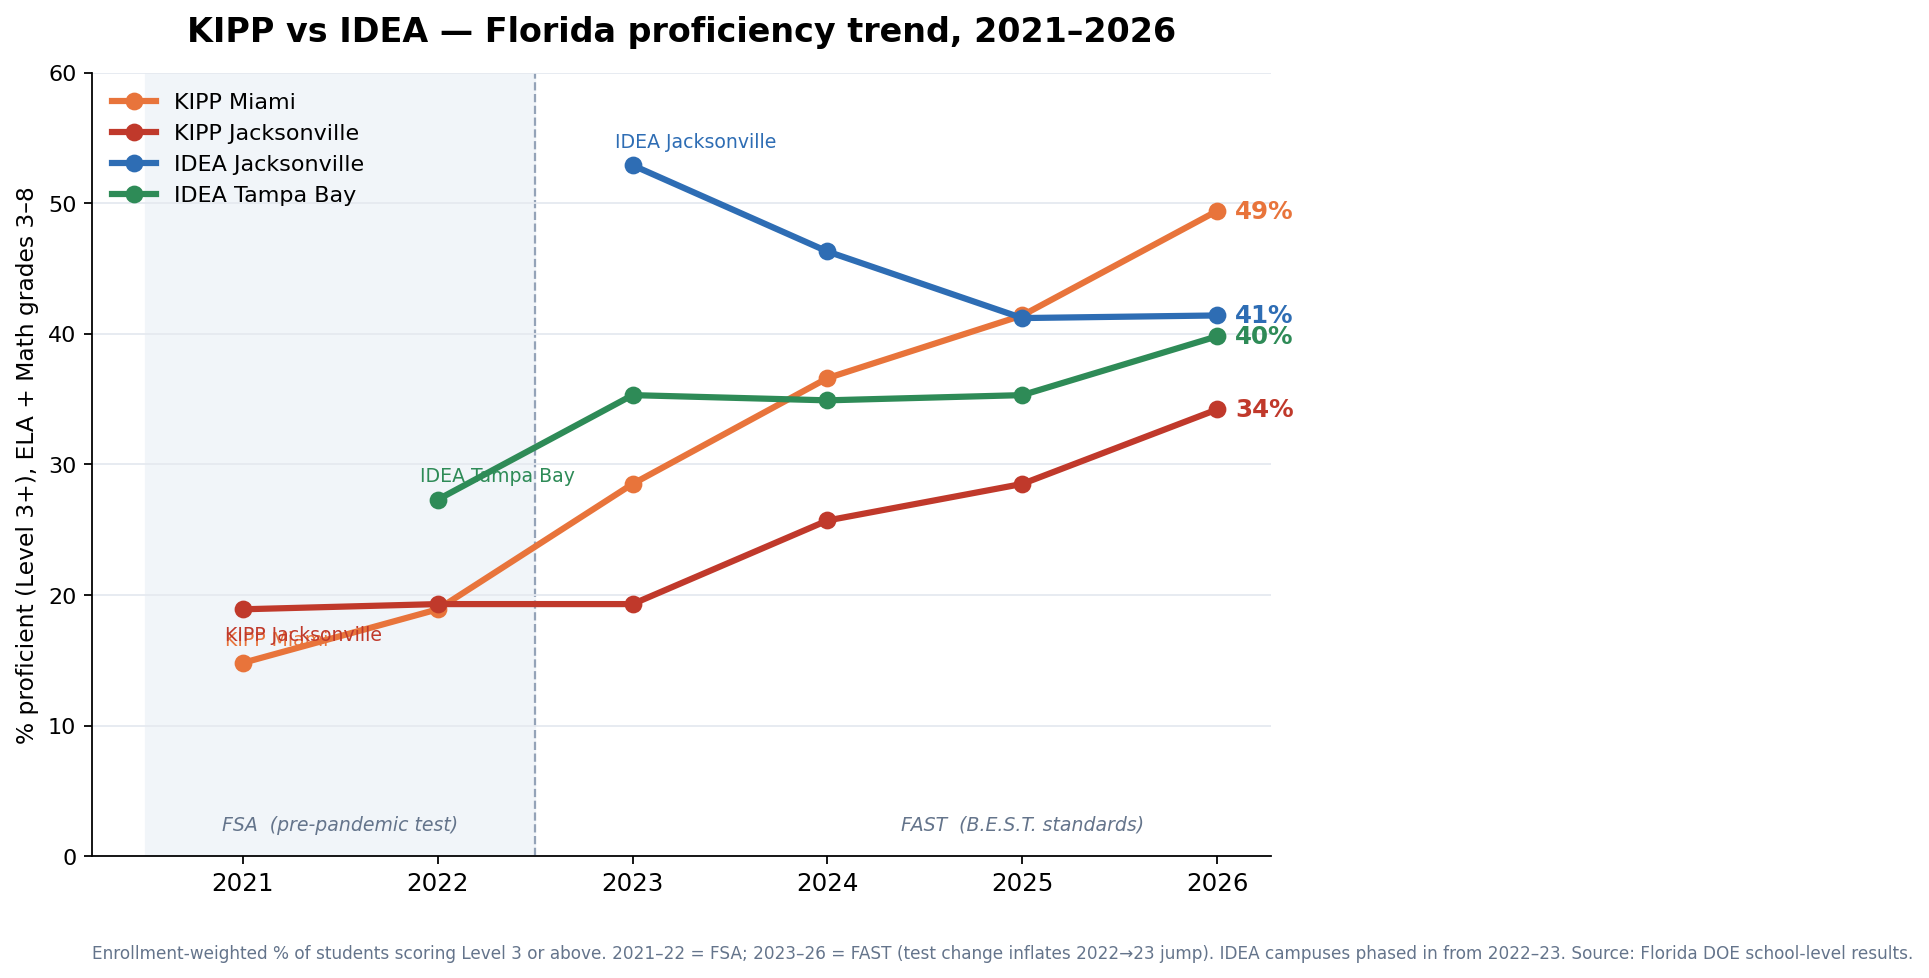
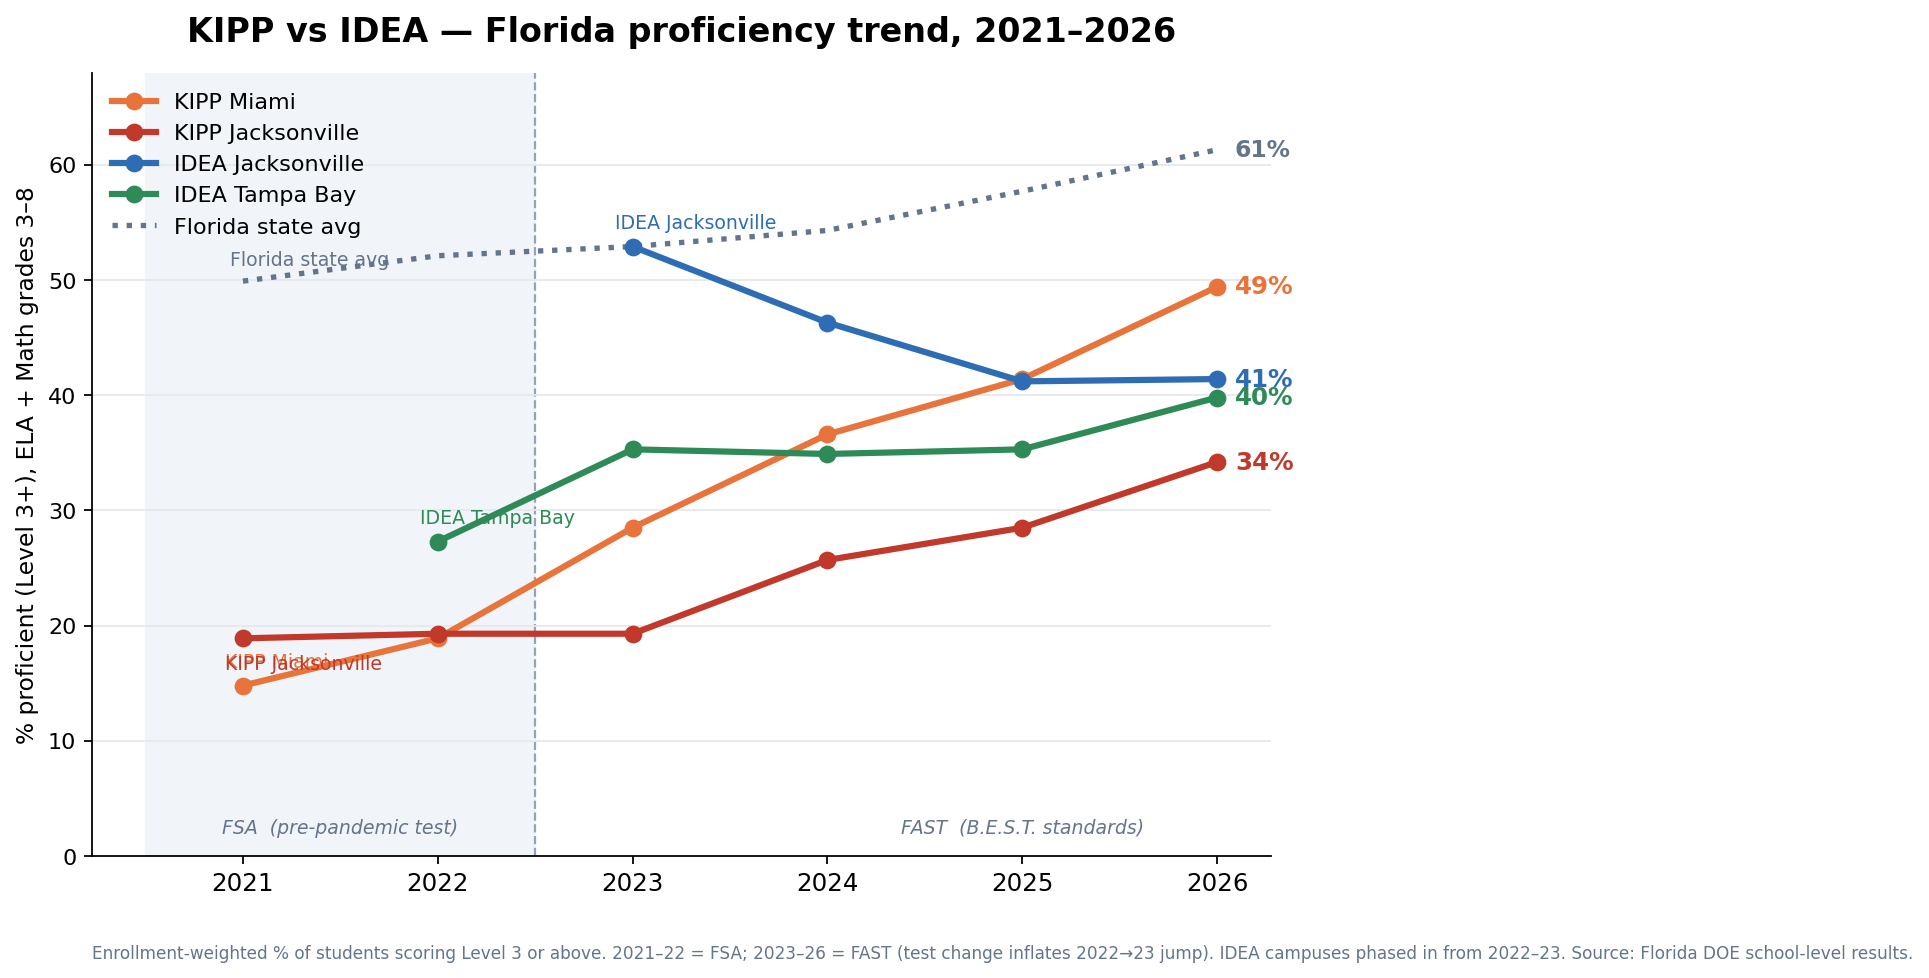
Add files via upload

diff --git a/trends.html b/trends.html
@@ -6,7 +6,7 @@
 <title>KIPP vs IDEA — Florida Proficiency Trends 2021–2026</title>
 <script src="https://cdn.jsdelivr.net/npm/chart.js@4.4.1/dist/chart.umd.min.js"></script>
 <style>
-:root{--bg:#f4f6f9;--card:#fff;--ink:#15233b;--muted:#64748b;--line:#e5e9f0;--radius:12px;}
+:root{--bg:#f4f6f9;--card:#fff;--ink:#15233b;--muted:#64748b;--line:#e5e9f0;--state:#94a3b8;--radius:12px;}
 *{margin:0;padding:0;box-sizing:border-box}
 body{font-family:-apple-system,BlinkMacSystemFont,'Segoe UI',Roboto,sans-serif;background:var(--bg);color:var(--ink);line-height:1.45}
 .wrap{max-width:1240px;margin:0 auto;padding:18px}
@@ -14,15 +14,17 @@ header.hero{background:linear-gradient(135deg,#15233b,#243b5e);color:#fff;border
 header.hero h1{font-size:21px;font-weight:700}
 header.hero p{font-size:13px;opacity:.85;margin-top:5px;max-width:920px}
 header.hero a{color:#bcd2f5}
-.controls{display:flex;flex-wrap:wrap;gap:18px;align-items:center;background:var(--card);border:1px solid var(--line);border-radius:var(--radius);padding:14px 18px;margin-bottom:16px}
+.controls{display:flex;flex-wrap:wrap;gap:18px;align-items:flex-end;background:var(--card);border:1px solid var(--line);border-radius:var(--radius);padding:14px 18px;margin-bottom:16px}
 .grp{display:flex;flex-direction:column;gap:6px}
 .lbl{font-size:11px;text-transform:uppercase;letter-spacing:.6px;color:var(--muted);font-weight:700}
 .seg{display:inline-flex;border:1px solid var(--line);border-radius:8px;overflow:hidden}
 .seg button{border:0;background:#fff;padding:7px 13px;font-size:13px;font-weight:600;color:var(--muted);cursor:pointer}
 .seg button.active{background:var(--ink);color:#fff}
+select{padding:8px 10px;border:1px solid var(--line);border-radius:8px;font-size:13px;font-weight:600;color:var(--ink);background:#fff}
 .regtoggles{display:flex;flex-wrap:wrap;gap:10px}
 .chip{display:inline-flex;align-items:center;gap:7px;font-size:13px;font-weight:600;background:#fff;border:1px solid var(--line);border-radius:20px;padding:6px 12px;cursor:pointer;user-select:none}
 .chip .dot{width:11px;height:11px;border-radius:50%}
+.chip.dotted .dot{background:repeating-linear-gradient(90deg,var(--state),var(--state) 2px,#fff 2px,#fff 4px);border-radius:0;height:3px;width:14px}
 .chip.off{opacity:.4;text-decoration:line-through}
 .tabs{display:flex;gap:6px;margin-bottom:14px;flex-wrap:wrap}
 .tabs button{border:1px solid var(--line);background:#fff;color:var(--muted);font-weight:600;font-size:13px;padding:9px 16px;border-radius:8px;cursor:pointer}
@@ -42,8 +44,8 @@ table{width:100%;border-collapse:collapse;font-size:13px}
 th,td{padding:8px 10px;border-bottom:1px solid var(--line);text-align:center;white-space:nowrap}
 th{font-size:11px;text-transform:uppercase;letter-spacing:.4px;color:var(--muted)}
 td.lt,th.lt{text-align:left;font-weight:600}
-.cell{display:inline-block;min-width:30px}
-.delta{font-weight:700}
+tbody tr.state td{background:#f8fafc;color:var(--muted)}
+.delta{font-weight:700;font-size:11px}
 .up{color:#16a34a}.down{color:#dc2626}
 .note{background:#fff8e6;border:1px solid #f5e3a8;border-radius:10px;padding:12px 16px;font-size:12.5px;color:#5b4d1e;margin-bottom:16px}
 footer{font-size:12px;color:var(--muted);text-align:center;padding:14px 0 30px}
@@ -54,11 +56,11 @@ footer a{color:var(--muted)}
 <div class="wrap">
 <header class="hero">
   <h1>KIPP vs IDEA — Florida Proficiency Trends, 2021–2026</h1>
-  <p>Six-year history of % proficient (Level 3+) by network, with year-over-year growth. Companion to the <a href="./index.html">2026 snapshot dashboard</a>. Enrollment-weighted across all campuses, grades 3–8. Source: Florida DOE school-level results.</p>
+  <p>% proficient (Level 3+) by network and grade, with the Florida state average (dotted) and year-over-year growth. Companion to the <a href="./index.html">2026 snapshot dashboard</a>. Enrollment-weighted across campuses. Source: Florida DOE school-level results.</p>
 </header>
 
 <div class="note" id="testnote">
-  <b>Read the 2022→2023 jump with care:</b> 2021–2022 used the <b>FSA</b>; Florida switched to the <b>FAST / B.E.S.T.</b> assessment in 2023, so part of that one-year change reflects the test change, not only school performance. 2021 was also a COVID-depressed year. IDEA campuses phased in over 2022–2024, so early years are blank for networks that didn't yet exist.
+  <b>Read the 2022→2023 jump with care:</b> 2021–2022 used the <b>FSA</b>; Florida switched to <b>FAST / B.E.S.T.</b> in 2023, so part of that change reflects the test switch. 2021 was COVID-depressed. IDEA campuses phased in over 2022–2024, so early years are blank for networks that didn't yet exist.
 </div>
 
 <div class="controls">
@@ -71,14 +73,24 @@ footer a{color:var(--muted)}
       <button data-subj="ALG1">Algebra 1 EOC</button>
     </div>
   </div>
+  <div class="grp">
+    <label class="lbl">Grade</label>
+    <select id="gradeSel">
+      <option value="ALL">All grades 3–8</option>
+      <option value="03">Grade 3</option><option value="04">Grade 4</option>
+      <option value="05">Grade 5</option><option value="06">Grade 6</option>
+      <option value="07">Grade 7</option><option value="08">Grade 8</option>
+    </select>
+  </div>
   <div class="grp" style="flex:1">
-    <label class="lbl">Networks (click to show / hide)</label>
+    <label class="lbl">Show / hide</label>
     <div class="regtoggles" id="regToggles"></div>
   </div>
 </div>
 
 <div class="tabs" id="tabs">
   <button data-tab="trend" class="active">Trend over time</button>
+  <button data-tab="snap2026" >2026 by grade</button>
   <button data-tab="yoy">Year-over-year growth</button>
   <button data-tab="table">Data table</button>
 </div>
@@ -86,127 +98,147 @@ footer a{color:var(--muted)}
 <div class="panel active" id="panel-trend">
   <div class="kpis" id="kpis"></div>
   <div class="card">
-    <h3>% proficient over time — <span class="subjName"></span></h3>
-    <div class="hint">Each point is the enrollment-weighted % of students at Level 3 or above. Gaps = network/campuses not yet open that year.</div>
+    <h3>% proficient over time — <span class="ctx"></span></h3>
+    <div class="hint">Each point is the enrollment-weighted % at Level 3 or above. <b>Dotted grey = Florida state average.</b> Gaps = network not yet open that year.</div>
     <div class="chartbox"><canvas id="trendChart"></canvas></div>
+  </div>
+</div>
+
+<div class="panel" id="panel-snap2026">
+  <div class="card">
+    <h3>2026 snapshot by grade — <span class="subjName"></span></h3>
+    <div class="hint">Spring 2026 % proficient at each grade for each network, with the Florida state average. The single-year view of the same data.</div>
+    <div class="chartbox"><canvas id="snapChart"></canvas></div>
   </div>
 </div>
 
 <div class="panel" id="panel-yoy">
   <div class="card">
-    <h3>Year-over-year change (percentage points) — <span class="subjName"></span></h3>
-    <div class="hint">Bars show the change in % proficient vs the prior year. Green = improvement, red = decline.</div>
+    <h3>Year-over-year change (pp) — <span class="ctx"></span></h3>
+    <div class="hint">Change in % proficient vs the prior year. Green = improvement, red = decline.</div>
     <div class="chartbox"><canvas id="yoyChart"></canvas></div>
   </div>
 </div>
 
 <div class="panel" id="panel-table">
   <div class="card">
-    <h3>Levels &amp; year-over-year growth — <span class="subjName"></span></h3>
-    <div class="hint">Each cell: % proficient, with the YoY change beneath. Last column = total change since the network's first year.</div>
+    <h3>Levels &amp; year-over-year growth — <span class="ctx"></span></h3>
+    <div class="hint">Each cell: % proficient with the YoY change beneath. Last column = total change since first year. State row shaded.</div>
     <div style="overflow-x:auto"><table id="dataTable"></table></div>
   </div>
 </div>
 
 <footer>
-  Built from Florida DOE results pages 2021–2026 (<a href="https://www.fldoe.org/accountability/assessments/k-12-student-assessment/results/" target="_blank" rel="noopener">fldoe.org</a>). Algebra 1 EOC is all-grades first-time testers. IDEA Lakeland (Polk Co.) included in IDEA Tampa Bay. Data pulled June 27, 2026.
+  Built from Florida DOE results pages 2021–2026 (<a href="https://www.fldoe.org/accountability/assessments/k-12-student-assessment/results/" target="_blank" rel="noopener">fldoe.org</a>). Algebra 1 EOC is all-grades first-time testers (shown as its own subject). IDEA Lakeland (Polk Co.) included in IDEA Tampa Bay. Data pulled June 27, 2026.
 </footer>
 </div>
 
 <script>
-const DATA = {"years": ["2021", "2022", "2023", "2024", "2025", "2026"], "networks": ["KIPP Miami", "KIPP Jacksonville", "IDEA Jacksonville", "IDEA Tampa Bay"], "rows": [{"year": "2021", "network": "KIPP Miami", "subj": "ELA", "n": 283, "p3": 16.3}, {"year": "2021", "network": "KIPP Jacksonville", "subj": "ELA", "n": 893, "p3": 21.7}, {"year": "2021", "network": "KIPP Miami", "subj": "MATH", "n": 283, "p3": 13.4}, {"year": "2021", "network": "KIPP Jacksonville", "subj": "MATH", "n": 858, "p3": 15.9}, {"year": "2021", "network": "KIPP Miami", "subj": "COMBINED", "n": 566, "p3": 14.8}, {"year": "2021", "network": "KIPP Jacksonville", "subj": "COMBINED", "n": 1751, "p3": 18.9}, {"year": "2021", "network": "KIPP Jacksonville", "subj": "ALG1", "n": 47, "p3": 57.0}, {"year": "2022", "network": "KIPP Miami", "subj": "ELA", "n": 516, "p3": 15.8}, {"year": "2022", "network": "KIPP Jacksonville", "subj": "ELA", "n": 1190, "p3": 21.4}, {"year": "2022", "network": "IDEA Tampa Bay", "subj": "ELA", "n": 249, "p3": 28.2}, {"year": "2022", "network": "KIPP Miami", "subj": "MATH", "n": 514, "p3": 22.0}, {"year": "2022", "network": "KIPP Jacksonville", "subj": "MATH", "n": 1137, "p3": 17.1}, {"year": "2022", "network": "IDEA Tampa Bay", "subj": "MATH", "n": 248, "p3": 26.5}, {"year": "2022", "network": "KIPP Miami", "subj": "COMBINED", "n": 1030, "p3": 18.9}, {"year": "2022", "network": "KIPP Jacksonville", "subj": "COMBINED", "n": 2327, "p3": 19.3}, {"year": "2022", "network": "IDEA Tampa Bay", "subj": "COMBINED", "n": 497, "p3": 27.3}, {"year": "2022", "network": "KIPP Jacksonville", "subj": "ALG1", "n": 99, "p3": 32.0}, {"year": "2023", "network": "KIPP Miami", "subj": "ELA", "n": 605, "p3": 23.5}, {"year": "2023", "network": "KIPP Jacksonville", "subj": "ELA", "n": 1284, "p3": 20.2}, {"year": "2023", "network": "IDEA Tampa Bay", "subj": "ELA", "n": 694, "p3": 29.9}, {"year": "2023", "network": "IDEA Jacksonville", "subj": "ELA", "n": 231, "p3": 39.1}, {"year": "2023", "network": "KIPP Miami", "subj": "MATH", "n": 585, "p3": 33.7}, {"year": "2023", "network": "KIPP Jacksonville", "subj": "MATH", "n": 1228, "p3": 18.5}, {"year": "2023", "network": "IDEA Tampa Bay", "subj": "MATH", "n": 689, "p3": 40.7}, {"year": "2023", "network": "IDEA Jacksonville", "subj": "MATH", "n": 229, "p3": 66.8}, {"year": "2023", "network": "KIPP Miami", "subj": "COMBINED", "n": 1190, "p3": 28.5}, {"year": "2023", "network": "KIPP Jacksonville", "subj": "COMBINED", "n": 2512, "p3": 19.3}, {"year": "2023", "network": "IDEA Tampa Bay", "subj": "COMBINED", "n": 1383, "p3": 35.3}, {"year": "2023", "network": "IDEA Jacksonville", "subj": "COMBINED", "n": 460, "p3": 52.9}, {"year": "2023", "network": "KIPP Miami", "subj": "ALG1", "n": 18, "p3": 83.0}, {"year": "2023", "network": "KIPP Jacksonville", "subj": "ALG1", "n": 176, "p3": 29.3}, {"year": "2024", "network": "KIPP Miami", "subj": "ELA", "n": 716, "p3": 32.8}, {"year": "2024", "network": "KIPP Jacksonville", "subj": "ELA", "n": 1461, "p3": 26.3}, {"year": "2024", "network": "IDEA Jacksonville", "subj": "ELA", "n": 752, "p3": 40.1}, {"year": "2024", "network": "IDEA Tampa Bay", "subj": "ELA", "n": 1025, "p3": 30.5}, {"year": "2024", "network": "KIPP Miami", "subj": "MATH", "n": 662, "p3": 40.7}, {"year": "2024", "network": "KIPP Jacksonville", "subj": "MATH", "n": 1384, "p3": 25.1}, {"year": "2024", "network": "IDEA Jacksonville", "subj": "MATH", "n": 749, "p3": 52.5}, {"year": "2024", "network": "IDEA Tampa Bay", "subj": "MATH", "n": 1021, "p3": 39.3}, {"year": "2024", "network": "KIPP Miami", "subj": "COMBINED", "n": 1378, "p3": 36.6}, {"year": "2024", "network": "KIPP Jacksonville", "subj": "COMBINED", "n": 2845, "p3": 25.7}, {"year": "2024", "network": "IDEA Jacksonville", "subj": "COMBINED", "n": 1501, "p3": 46.3}, {"year": "2024", "network": "IDEA Tampa Bay", "subj": "COMBINED", "n": 2046, "p3": 34.9}, {"year": "2024", "network": "KIPP Miami", "subj": "ALG1", "n": 51, "p3": 82.0}, {"year": "2024", "network": "KIPP Jacksonville", "subj": "ALG1", "n": 116, "p3": 48.6}, {"year": "2025", "network": "KIPP Miami", "subj": "ELA", "n": 866, "p3": 41.3}, {"year": "2025", "network": "KIPP Jacksonville", "subj": "ELA", "n": 1535, "p3": 29.6}, {"year": "2025", "network": "IDEA Jacksonville", "subj": "ELA", "n": 1167, "p3": 39.3}, {"year": "2025", "network": "IDEA Tampa Bay", "subj": "ELA", "n": 1450, "p3": 32.9}, {"year": "2025", "network": "KIPP Miami", "subj": "MATH", "n": 796, "p3": 41.5}, {"year": "2025", "network": "KIPP Jacksonville", "subj": "MATH", "n": 1413, "p3": 27.2}, {"year": "2025", "network": "IDEA Jacksonville", "subj": "MATH", "n": 1089, "p3": 43.2}, {"year": "2025", "network": "IDEA Tampa Bay", "subj": "MATH", "n": 1373, "p3": 37.8}, {"year": "2025", "network": "KIPP Miami", "subj": "COMBINED", "n": 1662, "p3": 41.4}, {"year": "2025", "network": "KIPP Jacksonville", "subj": "COMBINED", "n": 2948, "p3": 28.5}, {"year": "2025", "network": "IDEA Jacksonville", "subj": "COMBINED", "n": 2256, "p3": 41.2}, {"year": "2025", "network": "IDEA Tampa Bay", "subj": "COMBINED", "n": 2823, "p3": 35.3}, {"year": "2025", "network": "KIPP Miami", "subj": "ALG1", "n": 66, "p3": 62.0}, {"year": "2025", "network": "KIPP Jacksonville", "subj": "ALG1", "n": 232, "p3": 43.3}, {"year": "2025", "network": "IDEA Jacksonville", "subj": "ALG1", "n": 85, "p3": 85.6}, {"year": "2025", "network": "IDEA Tampa Bay", "subj": "ALG1", "n": 169, "p3": 67.7}, {"year": "2026", "network": "KIPP Miami", "subj": "ELA", "n": 875, "p3": 47.9}, {"year": "2026", "network": "KIPP Miami", "subj": "MATH", "n": 781, "p3": 51.1}, {"year": "2026", "network": "KIPP Miami", "subj": "ALG1", "n": 84, "p3": 88.0}, {"year": "2026", "network": "KIPP Miami", "subj": "COMBINED", "n": 1656, "p3": 49.4}, {"year": "2026", "network": "KIPP Jacksonville", "subj": "ELA", "n": 1600, "p3": 35.0}, {"year": "2026", "network": "KIPP Jacksonville", "subj": "MATH", "n": 1468, "p3": 33.3}, {"year": "2026", "network": "KIPP Jacksonville", "subj": "ALG1", "n": 231, "p3": 45.6}, {"year": "2026", "network": "KIPP Jacksonville", "subj": "COMBINED", "n": 3068, "p3": 34.2}, {"year": "2026", "network": "IDEA Jacksonville", "subj": "ELA", "n": 1439, "p3": 38.2}, {"year": "2026", "network": "IDEA Jacksonville", "subj": "MATH", "n": 1348, "p3": 44.8}, {"year": "2026", "network": "IDEA Jacksonville", "subj": "ALG1", "n": 91, "p3": 83.5}, {"year": "2026", "network": "IDEA Jacksonville", "subj": "COMBINED", "n": 2787, "p3": 41.4}, {"year": "2026", "network": "IDEA Tampa Bay", "subj": "ELA", "n": 1568, "p3": 40.3}, {"year": "2026", "network": "IDEA Tampa Bay", "subj": "MATH", "n": 1492, "p3": 39.3}, {"year": "2026", "network": "IDEA Tampa Bay", "subj": "ALG1", "n": 111, "p3": 62.3}, {"year": "2026", "network": "IDEA Tampa Bay", "subj": "COMBINED", "n": 3060, "p3": 39.8}]};
-const YEARS = DATA.years, NETS = DATA.networks;
+const DATA = {"years": ["2021", "2022", "2023", "2024", "2025", "2026"], "networks": ["KIPP Miami", "KIPP Jacksonville", "IDEA Jacksonville", "IDEA Tampa Bay"], "series": {"ELA": {"03": {"STATE": [54, 53, 50, 55, 57, 60], "KIPP Miami": [16, 21, 26, 36, 35, 49], "KIPP Jacksonville": [20, 16, 20.9, 24.8, 22.6, 32], "IDEA Tampa Bay": [null, null, 25.3, 33.4, 39.9, 34.5], "IDEA Jacksonville": [null, null, null, 38, 40.4, 35.2]}, "ALL": {"STATE": [52, 52.3, 50.4, 53, 56.8, 60.8], "KIPP Miami": [16.3, 15.8, 23.5, 32.8, 41.3, 47.9], "KIPP Jacksonville": [21.7, 21.4, 20.2, 26.3, 29.6, 34.9], "IDEA Tampa Bay": [null, 28.2, 29.9, 30.5, 32.9, 40.4], "IDEA Jacksonville": [null, null, 39.1, 40.1, 39.3, 38.2]}, "04": {"STATE": [52, 57, 58, 53, 56, 60], "KIPP Jacksonville": [15, 22.3, 15.4, 23.5, 22.9, 23], "KIPP Miami": [null, 11, 33, 26, 32, 48], "IDEA Jacksonville": [null, null, null, 38.7, 34.5, 39.3], "IDEA Tampa Bay": [null, null, null, 28.8, 29.4, 39]}, "05": {"STATE": [54, 55, 54, 55, 56, 61], "KIPP Miami": [14, 8, 18, 26, 36, 41], "KIPP Jacksonville": [19, 17, 12.1, 15.5, 25.1, 29.8], "IDEA Jacksonville": [null, null, null, null, 36.1, 33.5], "IDEA Tampa Bay": [null, null, null, null, 29.2, 45.3]}, "06": {"STATE": [52, 52, 47, 54, 60, 62], "KIPP Miami": [26, 21, 21, 33, 50, 47], "KIPP Jacksonville": [23, 25.7, 21.4, 32.8, 30.1, 41.3], "IDEA Tampa Bay": [null, 28.2, 32.6, 23.3, 38.8, 37.2], "IDEA Jacksonville": [null, null, 39.1, 41, 33.8, 42.5]}, "07": {"STATE": [48, 48, 47, 50, 57, 62], "KIPP Miami": [8, 16, 30, 34, 49, 46], "KIPP Jacksonville": [20, 23, 20.4, 28.6, 36.6, 34.9], "IDEA Tampa Bay": [null, null, 31.9, 32.6, 25.2, 48.4], "IDEA Jacksonville": [null, null, null, 41.5, 39, 30]}, "08": {"STATE": [52, 49, 47, 51, 55, 60], "KIPP Jacksonville": [45, 27, 28, 26.1, 37.2, 45.9], "KIPP Miami": [null, 13, 18, 39, 47, 56], "IDEA Tampa Bay": [null, null, null, 33.8, 32.6, 39.6], "IDEA Jacksonville": [null, null, null, null, 49.7, 47.4]}}, "COMBINED": {"03": {"STATE": [52.5, 55.5, 54.5, 57.5, 60, 63], "KIPP Miami": [11.5, 22.5, 27, 37, 35.5, 55], "KIPP Jacksonville": [14.1, 17.2, 19.5, 22.1, 28.2, 36.4], "IDEA Tampa Bay": [null, null, 29.4, 36.2, 41.6, 32.5], "IDEA Jacksonville": [null, null, null, 45, 45.1, 40.5]}, "ALL": {"STATE": [49.9, 52.1, 52.9, 54.3, 57.7, 61.3], "KIPP Miami": [14.8, 18.9, 28.5, 36.6, 41.4, 49.4], "KIPP Jacksonville": [18.9, 19.3, 19.3, 25.8, 28.5, 34.1], "IDEA Tampa Bay": [null, 27.4, 35.3, 34.9, 35.3, 39.8], "IDEA Jacksonville": [null, null, 52.9, 46.3, 41.2, 41.4]}, "04": {"STATE": [52.5, 59, 59.5, 55.5, 59, 62.5], "KIPP Jacksonville": [12.5, 16.5, 13.7, 19.8, 22, 23.4], "KIPP Miami": [null, 11, 32, 28.5, 34.5, 47], "IDEA Jacksonville": [null, null, null, 46.7, 43.1, 41.7], "IDEA Tampa Bay": [null, null, null, 31.9, 32.3, 36.2]}, "05": {"STATE": [52.5, 53.5, 54.5, 55.5, 56.5, 61.5], "KIPP Miami": [8.1, 6, 17, 32.1, 29.5, 34.5], "KIPP Jacksonville": [14.4, 12.6, 9.6, 11.5, 17.6, 25.4], "IDEA Jacksonville": [null, null, null, null, 40.5, 34], "IDEA Tampa Bay": [null, null, null, null, 30.2, 40.2]}, "06": {"STATE": [48.6, 50.5, 50.5, 55, 60, 61], "KIPP Miami": [24.5, 29.1, 31.5, 36, 52, 53.5], "KIPP Jacksonville": [24.5, 22.8, 18.7, 29.6, 24.8, 37.5], "IDEA Tampa Bay": [null, 27.4, 39.2, 25, 41.3, 37.1], "IDEA Jacksonville": [null, null, 52.9, 42, 32.9, 46.8]}, "07": {"STATE": [46.2, 47.1, 47.4, 48.8, 54.2, 58.7], "KIPP Miami": [11.5, 19.5, 42.5, 49, 52, 56.4], "KIPP Jacksonville": [26, 25.5, 21.7, 33.2, 40.3, 40.9], "IDEA Tampa Bay": [null, null, 37.4, 38.6, 34.4, 53.4], "IDEA Jacksonville": [null, null, null, 51.4, 41.8, 38.1]}, "08": {"STATE": [45.9, 46.1, 50.5, 52.3, 55.9, 60.4], "KIPP Jacksonville": [39, 26.2, 31.5, 29, 33.4, 39.9], "KIPP Miami": [null, 17.4, 23.8, 37.7, 47, 48.9], "IDEA Tampa Bay": [null, null, null, 42.1, 28.9, 42.6], "IDEA Jacksonville": [null, null, null, null, 42.5, 46.7]}}, "MATH": {"03": {"STATE": [51, 58, 59, 60, 63, 66], "KIPP Miami": [7, 24, 28, 38, 36, 61], "KIPP Jacksonville": [8, 18.4, 18, 19.4, 33.9, 40.8], "IDEA Tampa Bay": [null, null, 33.4, 39, 43.2, 30.4], "IDEA Jacksonville": [null, null, null, 52, 49.9, 45.9]}, "ALL": {"STATE": [47.5, 51.9, 55.7, 55.7, 58.7, 61.9], "KIPP Miami": [13.4, 22, 33.7, 40.7, 41.5, 51.1], "KIPP Jacksonville": [15.9, 17.1, 18.5, 25.2, 27.2, 33.3], "IDEA Tampa Bay": [null, 26.5, 40.7, 39.3, 37.8, 39.3], "IDEA Jacksonville": [null, null, 66.8, 52.5, 43.2, 44.8]}, "04": {"STATE": [53, 61, 61, 58, 62, 65], "KIPP Jacksonville": [10, 10.6, 11.9, 16, 21, 23.9], "KIPP Miami": [null, 11, 31, 31, 37, 46], "IDEA Jacksonville": [null, null, null, 54.8, 51.7, 44], "IDEA Tampa Bay": [null, null, null, 34.9, 35.2, 33.3]}, "05": {"STATE": [51, 52, 55, 56, 57, 62], "KIPP Miami": [2, 4, 16, 38, 23, 28], "KIPP Jacksonville": [10, 8.1, 7.2, 7.6, 10.2, 20.9], "IDEA Jacksonville": [null, null, null, null, 44.9, 34.5], "IDEA Tampa Bay": [null, null, null, null, 31.2, 35]}, "06": {"STATE": [45, 49, 54, 56, 60, 60], "KIPP Miami": [23, 37, 42, 39, 54, 60], "KIPP Jacksonville": [26, 19.9, 15.9, 26.3, 19.6, 33.8], "IDEA Tampa Bay": [null, 26.5, 45.8, 26.7, 43.7, 37.1], "IDEA Jacksonville": [null, null, 66.8, 43, 32, 51.2]}, "07": {"STATE": [44, 46, 48, 47, 50, 53], "KIPP Miami": [15, 23, 55, 64, 55, 67], "KIPP Jacksonville": [32, 28, 22.9, 37.8, 44.1, 47.1], "IDEA Tampa Bay": [null, null, 43, 44.6, 43.7, 58.3], "IDEA Jacksonville": [null, null, null, 61.3, 44.5, 46.5]}, "08": {"STATE": [37, 42, 55, 54, 57, 61], "KIPP Jacksonville": [26, 25, 36.3, 32.9, 26.9, 29.6], "KIPP Miami": [null, 22, 31, 35, 47, 31], "IDEA Tampa Bay": [null, null, null, 50.4, 23, 47.2], "IDEA Jacksonville": [null, null, null, null, 30.6, 45.6]}}, "ALG1": {"EOC": {"STATE": [49, 54, 54, 55, 60, 63], "KIPP Jacksonville": [57, 32, 29.3, 48.6, 43.3, 45.6], "KIPP Miami": [null, null, 83, 82, 62, 88], "IDEA Jacksonville": [null, null, null, null, 85.6, 83.5], "IDEA Tampa Bay": [null, null, null, null, 67.7, 62.3]}}}};
+const YEARS = DATA.years, NETS = DATA.networks, SER = DATA.series;
 const RCOLOR={"KIPP Miami":"#E8743B","KIPP Jacksonville":"#C0392B","IDEA Jacksonville":"#2E6DB4","IDEA Tampa Bay":"#2E8B57"};
+const STATE_C="#94a3b8";
 const SUBJ_NAME={COMBINED:"ELA + Math",ELA:"ELA",MATH:"Math",ALG1:"Algebra 1 EOC"};
-// index: subj -> net -> year -> p3
-const IDX={};
-DATA.rows.forEach(r=>{(IDX[r.subj]=IDX[r.subj]||{}); (IDX[r.subj][r.network]=IDX[r.subj][r.network]||{})[r.year]=r.p3;});
+const GLABEL={ALL:"All grades 3–8","03":"Grade 3","04":"Grade 4","05":"Grade 5","06":"Grade 6","07":"Grade 7","08":"Grade 8",EOC:"Algebra 1 EOC"};
+const GRADES=["03","04","05","06","07","08"];
 
-let subj="COMBINED";
-let on={}; NETS.forEach(n=>on[n]=true);
+let subj="COMBINED", grade="ALL";
+let on={}; NETS.forEach(n=>on[n]=true); on["STATE"]=true;
 let charts={};
-const active=()=>NETS.filter(n=>on[n]);
-const series=(sj,net)=>YEARS.map(y=>{const v=IDX[sj]&&IDX[sj][net]&&IDX[sj][net][y]; return v==null?null:v;});
+const activeNets=()=>NETS.filter(n=>on[n]);
+const curGrade=()=> subj==="ALG1" ? "EOC" : grade;
+const get=(sj,g,net)=> (SER[sj]&&SER[sj][g]&&SER[sj][g][net]) ? SER[sj][g][net] : null;
 
 function buildToggles(){
   const c=document.getElementById("regToggles"); c.innerHTML="";
   NETS.forEach(n=>{const e=document.createElement("div");e.className="chip"+(on[n]?"":" off");
     e.innerHTML=`<span class="dot" style="background:${RCOLOR[n]}"></span>${n}`;
     e.onclick=()=>{on[n]=!on[n];e.classList.toggle("off");renderAll();};c.appendChild(e);});
+  const s=document.createElement("div");s.className="chip dotted"+(on["STATE"]?"":" off");
+  s.innerHTML=`<span class="dot"></span>Florida state`;
+  s.onclick=()=>{on["STATE"]=!on["STATE"];s.classList.toggle("off");renderAll();};c.appendChild(s);
 }
-function firstLast(sj,net){const s=series(sj,net);let f=null,l=null;
-  for(let i=0;i<s.length;i++){if(s[i]!=null){if(f==null)f={y:YEARS[i],v:s[i]};l={y:YEARS[i],v:s[i]};}}
-  return {f,l};}
-function lastYoY(sj,net){const s=series(sj,net);let vals=[];for(let i=0;i<s.length;i++)if(s[i]!=null)vals.push({y:YEARS[i],v:s[i]});
-  if(vals.length<2)return null;const a=vals[vals.length-2],b=vals[vals.length-1];return {from:a.y,to:b.y,d:b.v-a.v};}
+function firstLast(arr){let f=null,l=null;for(let i=0;i<arr.length;i++){if(arr[i]!=null){if(f==null)f={y:YEARS[i],v:arr[i]};l={y:YEARS[i],v:arr[i]};}}return {f,l};}
+function lastYoY(arr){let v=[];for(let i=0;i<arr.length;i++)if(arr[i]!=null)v.push({y:YEARS[i],v:arr[i]});if(v.length<2)return null;const a=v[v.length-2],b=v[v.length-1];return {from:a.y,to:b.y,d:b.v-a.v};}
 
 function renderKPIs(){
   const c=document.getElementById("kpis");c.innerHTML="";
-  active().forEach(net=>{
-    const {f,l}=firstLast(subj,net); if(!l){return;}
-    const tot=l.v-f.v; const yo=lastYoY(subj,net);
+  const g=curGrade(); const st=get(subj,g,"STATE");
+  activeNets().forEach(net=>{
+    const arr=get(subj,g,net); if(!arr){return;}
+    const {f,l}=firstLast(arr); if(!l)return; const tot=l.v-f.v; const yo=lastYoY(arr);
+    const gap = st? (l.v - st[5]) : null;
     const d=document.createElement("div");d.className="kpi";d.style.borderLeftColor=RCOLOR[net];
     d.innerHTML=`<div class="name"><span class="dot" style="display:inline-block;width:11px;height:11px;border-radius:50%;background:${RCOLOR[net]}"></span>${net}</div>
       <div class="val">${l.v.toFixed(1)}%</div>
-      <div class="sub">${l.y} level &middot; since ${f.y}: <b class="${tot>=0?'pos':'neg'}">${tot>=0?'+':''}${tot.toFixed(1)} pp</b></div>
-      <div class="sub">latest YoY (${yo?yo.from+'→'+yo.to:''}): <b class="${yo&&yo.d>=0?'pos':'neg'}">${yo?(yo.d>=0?'+':'')+yo.d.toFixed(1)+' pp':'—'}</b></div>`;
+      <div class="sub">${l.y} &middot; since ${f.y}: <b class="${tot>=0?'pos':'neg'}">${tot>=0?'+':''}${tot.toFixed(1)} pp</b>${gap!=null?` &middot; vs state <b class="${gap>=0?'pos':'neg'}">${gap>=0?'+':''}${gap.toFixed(1)}</b>`:''}</div>
+      <div class="sub">latest YoY (${yo?yo.from.slice(2)+'→'+yo.to.slice(2):''}): <b class="${yo&&yo.d>=0?'pos':'neg'}">${yo?(yo.d>=0?'+':'')+yo.d.toFixed(1)+' pp':'—'}</b></div>`;
     c.appendChild(d);
   });
 }
 function renderTrend(){
   if(charts.trend)charts.trend.destroy();
-  const ds=active().map(net=>({label:net,data:series(subj,net),borderColor:RCOLOR[net],
-    backgroundColor:RCOLOR[net]+"22",borderWidth:3,tension:.2,pointRadius:5,pointHoverRadius:7,spanGaps:false}));
-  charts.trend=new Chart(document.getElementById("trendChart"),{type:"line",
-    data:{labels:YEARS,datasets:ds},
+  const g=curGrade();
+  const ds=activeNets().map(net=>({label:net,data:get(subj,g,net),borderColor:RCOLOR[net],backgroundColor:RCOLOR[net]+"22",borderWidth:3,tension:.2,pointRadius:5,pointHoverRadius:7,spanGaps:false}));
+  if(on["STATE"]){const s=get(subj,g,"STATE"); if(s) ds.push({label:"Florida state",data:s,borderColor:STATE_C,borderDash:[6,5],borderWidth:2.5,pointRadius:3,tension:.2,spanGaps:false});}
+  charts.trend=new Chart(document.getElementById("trendChart"),{type:"line",data:{labels:YEARS,datasets:ds},
     options:{responsive:true,maintainAspectRatio:false,interaction:{mode:"index",intersect:false},
-      plugins:{legend:{position:"top",labels:{usePointStyle:true,padding:16}},
-        tooltip:{callbacks:{label:c=>`${c.dataset.label}: ${c.parsed.y==null?'—':c.parsed.y.toFixed(1)+'%'}`}}},
-      scales:{y:{beginAtZero:true,suggestedMax:60,ticks:{callback:v=>v+"%"}}}}});
+      plugins:{legend:{position:"top",labels:{usePointStyle:true,padding:16}},tooltip:{callbacks:{label:c=>`${c.dataset.label}: ${c.parsed.y==null?'—':c.parsed.y.toFixed(1)+'%'}`}}},
+      scales:{y:{beginAtZero:true,suggestedMax:70,ticks:{callback:v=>v+"%"}}}}});
+}
+function renderSnap(){
+  if(charts.snap)charts.snap.destroy();
+  const alg = subj==="ALG1";
+  const labels = alg ? ["Algebra 1 EOC"] : GRADES.map(g=>"Gr "+(+g));
+  const cats = alg ? ["EOC"] : GRADES;
+  const ds=activeNets().map(net=>({label:net,data:cats.map(g=>{const a=get(subj,g,net);return a?a[5]:null;}),backgroundColor:RCOLOR[net]+"DD",borderColor:RCOLOR[net],borderWidth:1,borderRadius:4}));
+  if(on["STATE"]) ds.push({label:"Florida state",data:cats.map(g=>{const a=get(subj,g,"STATE");return a?a[5]:null;}),backgroundColor:STATE_C+"99",borderColor:STATE_C,borderWidth:1,borderRadius:4});
+  charts.snap=new Chart(document.getElementById("snapChart"),{type:"bar",data:{labels,datasets:ds},
+    options:{responsive:true,maintainAspectRatio:false,plugins:{legend:{position:"top",labels:{usePointStyle:true,padding:16}},tooltip:{callbacks:{label:c=>`${c.dataset.label}: ${c.parsed.y==null?'—':c.parsed.y.toFixed(1)+'%'}`}}},scales:{y:{beginAtZero:true,suggestedMax:70,ticks:{callback:v=>v+"%"}}}}});
 }
 function renderYoY(){
   if(charts.yoy)charts.yoy.destroy();
+  const g=curGrade();
   const labels=YEARS.slice(1).map((y,i)=>YEARS[i].slice(2)+"→"+y.slice(2));
-  const ds=active().map(net=>{
-    const s=series(subj,net);const data=[];
-    for(let i=1;i<s.length;i++)data.push((s[i]!=null&&s[i-1]!=null)?+(s[i]-s[i-1]).toFixed(1):null);
-    return {label:net,data,backgroundColor:RCOLOR[net]+"DD",borderColor:RCOLOR[net],borderWidth:1,borderRadius:4};
-  });
-  charts.yoy=new Chart(document.getElementById("yoyChart"),{type:"bar",
-    data:{labels,datasets:ds},
-    options:{responsive:true,maintainAspectRatio:false,
-      plugins:{legend:{position:"top",labels:{usePointStyle:true,padding:16}},
-        tooltip:{callbacks:{label:c=>`${c.dataset.label}: ${c.parsed.y==null?'—':(c.parsed.y>=0?'+':'')+c.parsed.y+' pp'}`}}},
-      scales:{y:{ticks:{callback:v=>(v>0?'+':'')+v+' pp'},grid:{color:'#e5e9f0'}}}}});
+  const mk=arr=>{const d=[];for(let i=1;i<arr.length;i++)d.push((arr&&arr[i]!=null&&arr[i-1]!=null)?+(arr[i]-arr[i-1]).toFixed(1):null);return d;};
+  const ds=activeNets().map(net=>{const a=get(subj,g,net);return {label:net,data:a?mk(a):[],backgroundColor:RCOLOR[net]+"DD",borderColor:RCOLOR[net],borderWidth:1,borderRadius:4};});
+  if(on["STATE"]){const s=get(subj,g,"STATE"); if(s) ds.push({label:"Florida state",data:mk(s),backgroundColor:STATE_C+"99",borderColor:STATE_C,borderWidth:1,borderRadius:4});}
+  charts.yoy=new Chart(document.getElementById("yoyChart"),{type:"bar",data:{labels,datasets:ds},
+    options:{responsive:true,maintainAspectRatio:false,plugins:{legend:{position:"top",labels:{usePointStyle:true,padding:16}},tooltip:{callbacks:{label:c=>`${c.dataset.label}: ${c.parsed.y==null?'—':(c.parsed.y>=0?'+':'')+c.parsed.y+' pp'}`}}},scales:{y:{ticks:{callback:v=>(v>0?'+':'')+v+' pp'}}}}});
 }
 function renderTable(){
-  let h="<thead><tr><th class='lt'>Network</th>";
-  YEARS.forEach(y=>h+=`<th>${y}</th>`); h+="<th>Total Δ</th></tr></thead><tbody>";
-  active().forEach(net=>{
-    const s=series(subj,net);const {f,l}=firstLast(subj,net);
-    h+=`<tr><td class='lt' style='color:${RCOLOR[net]}'>${net}</td>`;
-    for(let i=0;i<s.length;i++){
-      if(s[i]==null){h+="<td>—</td>";continue;}
-      let dl="";if(i>0&&s[i-1]!=null){const dd=s[i]-s[i-1];dl=`<div class='delta ${dd>=0?'up':'down'}'>${dd>=0?'+':''}${dd.toFixed(1)}</div>`;}
-      h+=`<td><div>${s[i].toFixed(1)}%</div>${dl}</td>`;
+  const g=curGrade();
+  let h="<thead><tr><th class='lt'>Series</th>";YEARS.forEach(y=>h+=`<th>${y}</th>`);h+="<th>Total Δ</th></tr></thead><tbody>";
+  const rowFor=(net,isState)=>{
+    const arr=get(subj,g,net); if(!arr)return"";
+    const {f,l}=firstLast(arr);
+    let r=`<tr class='${isState?'state':''}'><td class='lt' style='${isState?'':'color:'+RCOLOR[net]}'>${isState?'Florida state':net}</td>`;
+    for(let i=0;i<arr.length;i++){
+      if(arr[i]==null){r+="<td>—</td>";continue;}
+      let dl="";if(i>0&&arr[i-1]!=null){const dd=arr[i]-arr[i-1];dl=`<div class='delta ${dd>=0?'up':'down'}'>${dd>=0?'+':''}${dd.toFixed(1)}</div>`;}
+      r+=`<td><div>${arr[i].toFixed(1)}%</div>${dl}</td>`;
     }
     const tot=l&&f?l.v-f.v:null;
-    h+=`<td class='delta ${tot>=0?'up':'down'}'>${tot==null?'—':(tot>=0?'+':'')+tot.toFixed(1)+' pp'}</td></tr>`;
-  });
+    r+=`<td class='delta ${tot>=0?'up':'down'}'>${tot==null?'—':(tot>=0?'+':'')+tot.toFixed(1)+' pp'}</td></tr>`;return r;
+  };
+  activeNets().forEach(net=>h+=rowFor(net,false));
+  if(on["STATE"])h+=rowFor("STATE",true);
   h+="</tbody>";document.getElementById("dataTable").innerHTML=h;
 }
-function renderAll(){
+function syncControls(){
+  const gsel=document.getElementById("gradeSel");
+  gsel.disabled = (subj==="ALG1");
+  gsel.style.opacity = (subj==="ALG1")?.5:1;
+  const ctx = subj==="ALG1" ? SUBJ_NAME[subj] : SUBJ_NAME[subj]+", "+GLABEL[curGrade()];
+  document.querySelectorAll(".ctx").forEach(e=>e.textContent=ctx);
   document.querySelectorAll(".subjName").forEach(e=>e.textContent=SUBJ_NAME[subj]);
-  document.getElementById("testnote").style.display = (subj==='ALG1')?'none':'block';
-  buildToggles();renderKPIs();renderTrend();renderYoY();renderTable();
+  document.getElementById("testnote").style.display=(subj==="ALG1")?"none":"block";
+  // disable 2026-by-grade subtitle handled; nothing else
 }
-document.querySelectorAll("#subjSeg button").forEach(b=>b.onclick=()=>{
-  document.querySelectorAll("#subjSeg button").forEach(x=>x.classList.remove("active"));
-  b.classList.add("active");subj=b.dataset.subj;renderAll();});
-document.querySelectorAll("#tabs button").forEach(b=>b.onclick=()=>{
-  document.querySelectorAll("#tabs button").forEach(x=>x.classList.remove("active"));
-  document.querySelectorAll(".panel").forEach(p=>p.classList.remove("active"));
-  b.classList.add("active");document.getElementById("panel-"+b.dataset.tab).classList.add("active");});
+function renderAll(){syncControls();buildToggles();renderKPIs();renderTrend();renderSnap();renderYoY();renderTable();}
+document.querySelectorAll("#subjSeg button").forEach(b=>b.onclick=()=>{document.querySelectorAll("#subjSeg button").forEach(x=>x.classList.remove("active"));b.classList.add("active");subj=b.dataset.subj;renderAll();});
+document.getElementById("gradeSel").onchange=e=>{grade=e.target.value;renderAll();};
+document.querySelectorAll("#tabs button").forEach(b=>b.onclick=()=>{document.querySelectorAll("#tabs button").forEach(x=>x.classList.remove("active"));document.querySelectorAll(".panel").forEach(p=>p.classList.remove("active"));b.classList.add("active");document.getElementById("panel-"+b.dataset.tab).classList.add("active");});
 renderAll();
 </script>
 </body>